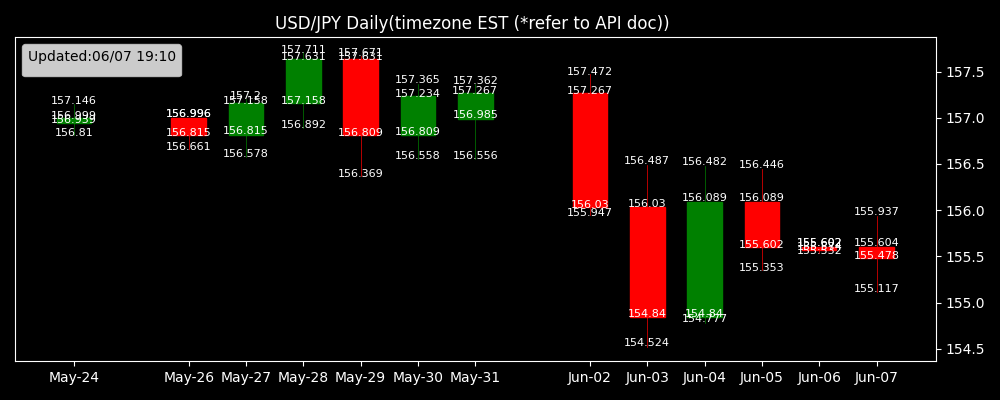
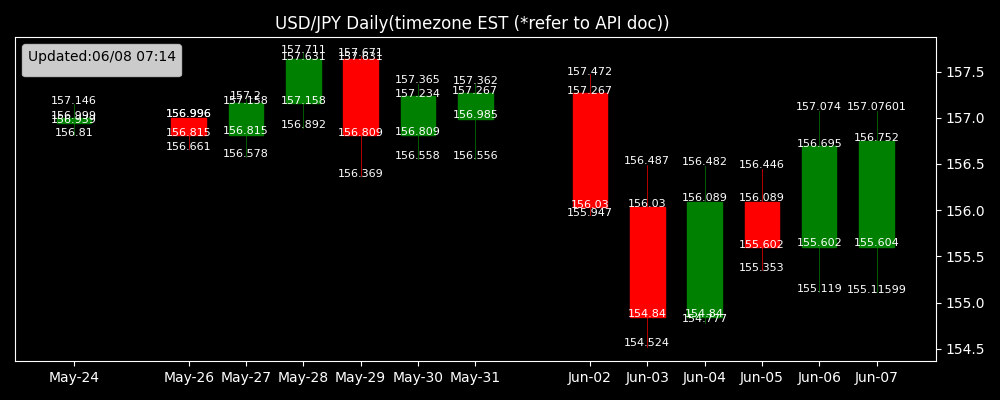
crongenerated

diff --git a/docs/src/dashboard/marketinfo.html b/docs/src/dashboard/marketinfo.html
@@ -14,14 +14,16 @@
     </style>
 </head>
 <body>
-    <h3> 概況 (更新： 06/07 19:10 ) </h3>
-    <p>最近の為替市場の動向を見ると、徐々に安定しつつも変動の幅が広がっているように見受けられる。過去2週間のデータを参照すると、2024年6月2日の高値157.472をピークに、その後は156円台から155円台に向かう減少傾向が観察される。
+    <h3> 概況 (更新： 06/08 07:14 ) </h3>
+    <p>提供されたデータによると、最近の為替の動向は比較的安定しているようである。過去2週間の間に、開市価格と終値はおおむね156.0から157.0の範囲内で推移している。
 
-具体的には、2024年6月2日から6月7日にかけて、開値157.267から開値155.604に減少している。この期間中のクローズ価格も、初めの156.03から終わりの155.478まで下降している。また、出来高（volume）の変動もあり、特に6月5日と6月6日の間に大幅な減少が見られる。これにより、市場の取引の活発さがその時点で縮小している可能性が高い。
+具体的には、2024年6月2日から6月7日にかけて、終値が156.695から156.752の間で変動している。この期間の取引量も比較的高めであることから、市場参加者の関心が高いことがうかがえる。
 
-2024年6月4日からの急な変動（開値154.84から高値156.482）は、市場の一定の不確定要因による一時的な反発とも考えられ、特に経済指標やニュースが影響を与えた可能性がある。例えば、6月初旬に発表された米国雇用統計の予想外の結果が、為替市場にショックを与える原因となったかもしれない。
+一方、ボラティリティ（価格変動）はやや増加傾向にあり、特に6月3日から6月7日の間に日ごとの高低差が大きくなっている。この間の最高値は157.07601、最低値は154.524となっている。これにより短期的なトレンドが形成される可能性もあるが、明確な方向性は今のところ見受けられない。
 
-全体的に、為替レートの動きは短期的には不安定であるが、長期的には徐々に落ち着きを取り戻す傾向が見られるかもしれない。来週以降の市場動向は、引き続き注意深く監視されることが重要である。</p>
+背景として、国際的な経済ニュースや政策変更が影響を与えている可能性がある。例えば、中央銀行の金利政策や国際貿易摩擦の状況などが影響を及ぼしているかもしれない。最新の経済指標や金融政策の動向を注視することが、今後の予測には不可欠である。
+
+総じて、現在の為替市場は堅調な動きを見せているが、外部要因による変動には注意が必要である。今後の市場動向を見守りつつ、慎重な対応が求められるだろう。</p>
 
     <p>Text generated from ChatGPT API.</p>
 

diff --git a/docs/src/dashboard/forecast_text.html b/docs/src/dashboard/forecast_text.html
@@ -5,27 +5,23 @@
     
 </head>
 <body>
-    <h3>今日の天気 (06-07 Fri)</h3>
-    <p>おはようございます！今日は2024年6月7日、東京（緯度35.65、経度139.75）の天気予報をお伝えします。
+    <h3>今日の天気 (06-08 Sat)</h3>
+    <p>### 天気予報（6月8日）
+- **東京の緯度・経度**：35.65, 139.75
+- **日の出**：05:00頃
+- **日没**：18:55頃
 
-- 朝の気温は19.5℃からスタートし、最高気温は25.3℃まで上がる見込みです。
-- 天気は一日中おおむね晴れ、雨やシャワーの予報はありません。
+**午後：**
+- **気温**：最高26.3°C
+- **降水確率**：0%（雨は降りません）
+- **天気概要**：午前中は晴れ、一部雲が広がる時間もありますが、概ね晴れの予報です。
 
-一日の詳細な天気状態は以下の通りです：
+### UVインデックスと日照時間
+- **UVインデックスmax**：8.3（非常に高い）
+- **日照時間**：約12.6時間（45513.37秒）
 
-- 午前は晴れ時々曇り
-- 午後からは快晴が続きます
-
-### UVインデックスと日照時間について
-
-- 本日の最大UVインデックスは7.9（非常に高いUVレベル）です。
-- 日照時間は約8時間10分ほどとなります。
-
-### 日傘が必要かどうか
-
-UVインデックスが高いため、日中外出する際は日傘を使用することをお勧めします。また、日焼け止めや帽子も併用するとより効果的です。
-
-快適な一日をお過ごしください！</p>
-    (更新：06/07 19:09)
+### 日傘が必要か
+はい、UVインデックスが非常に高いため、日中は日傘を使用することを強くお勧めします。特に午前10時から午後3時の間は紫外線が強くなるため、日焼けや皮膚へのダメージを防ぐためにも日傘や適切なUV対策が重要です。</p>
+    (更新：06/08 07:13)
 
 </html>
